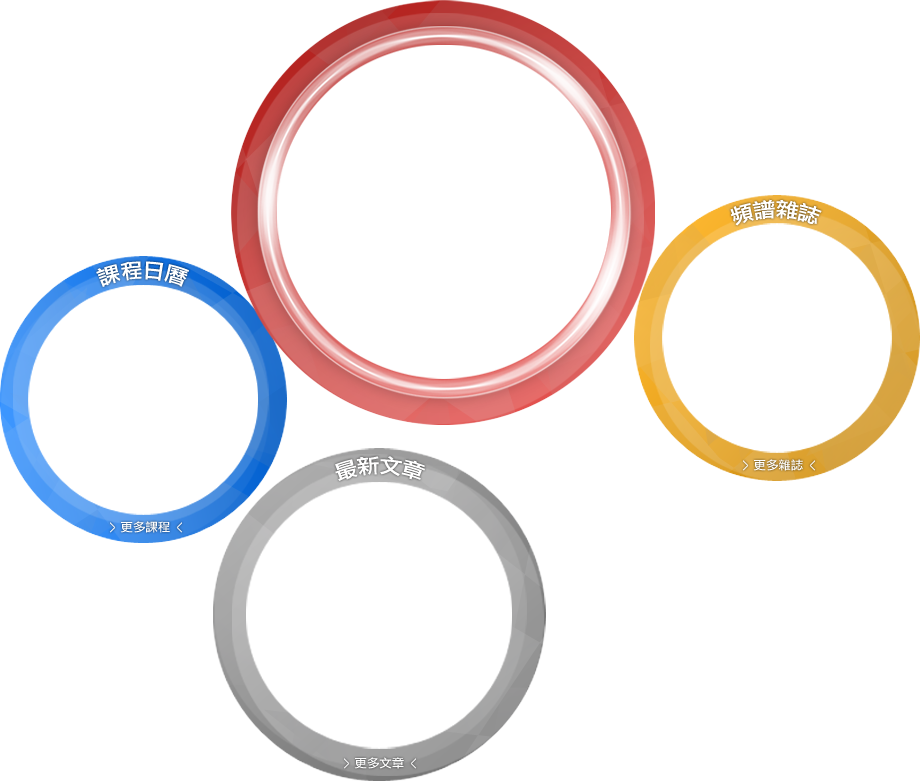
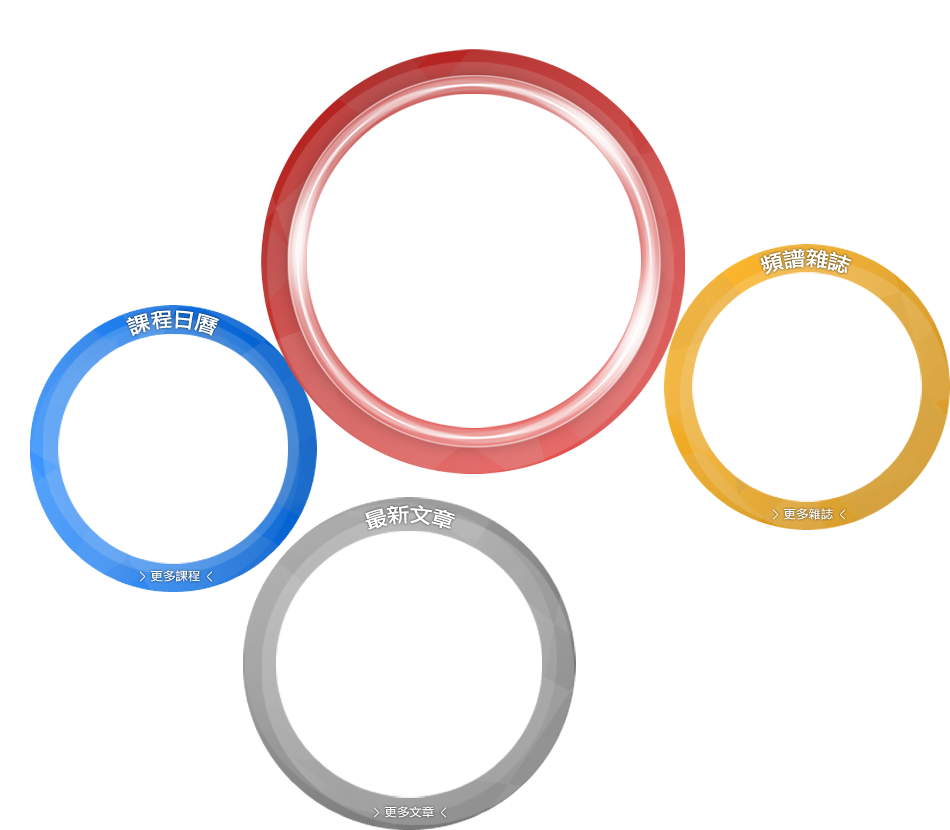
Home page redo.

Changed region(s): [[0.0, 0.0, 1.0, 1.0]]

diff --git a/catalog/view/theme/jfchealth/css/common.css b/catalog/view/theme/jfchealth/css/common.css
@@ -49,6 +49,80 @@ ul
 {
 }
 
+.content-background
+{
+    width:960px;
+    height:850px;
+}
+#news-section
+{
+    margin-left:20px;
+    float:left;
+    position:relative;
+    top:10px;
+}
+#news-section-img
+{
+    background-image: url("../images/img_index_news_photo01.png");
+    width:208px;
+    height:176px;
+    margin-left:10px;
+}
+.news-section-intro
+{
+    position:relative;
+    top:118px;
+    width:180px;
+    margin:auto;
+}
+#product-image
+{
+    position:relative;
+    top:110px;
+    left:60px;
+    float:left;
+}
+#product-section
+{
+    margin-right:30px;
+    float:right;
+    width:230px;
+    position:relative;
+    top:-10px;
+}
+#course-section
+{
+    margin-left:80px;
+    float:left;
+    width:190px;
+    position:relative;
+    top:70px;
+}
+#magazine-section
+{
+    margin-right:19px;
+    float:right;
+    width:190px;
+    position:relative;
+    top:0px;
+}
+#article-section
+{
+    margin-left:310px;
+    float:left;
+    width:210px;
+    position:relative;
+    top:35px;
+}
+#video-section
+{
+    margin-right:15px;
+    float:right;
+    width:353px;
+    position:relative;
+    top:20px;
+}
+
 .content-detail
 {
     width:670px;

diff --git a/catalog/view/theme/jfchealth/css/zh-HK/home.css b/catalog/view/theme/jfchealth/css/zh-HK/home.css
@@ -59,3 +59,8 @@ a:hover {
 	color: #FFFFFF;
 	text-decoration: none;
 }
+
+.content-background
+{
+	background-image: url("../../images/zh-HK/img_index_content_bg.png");
+}

diff --git a/catalog/view/theme/jfchealth/css/en/home.css b/catalog/view/theme/jfchealth/css/en/home.css
@@ -59,3 +59,8 @@ a:hover {
 	color: #FFFFFF;
 	text-decoration: none;
 }
+
+.content-background
+{
+	background-image: url("../../images/en/img_index_content_bg.png");
+}

diff --git a/catalog/view/theme/jfchealth/css/zh/home.css b/catalog/view/theme/jfchealth/css/zh/home.css
@@ -59,3 +59,8 @@ a:hover {
 	color: #FFFFFF;
 	text-decoration: none;
 }
+
+.content-background
+{
+	background-image: url("../../images/zh/img_index_content_bg.png");
+}
